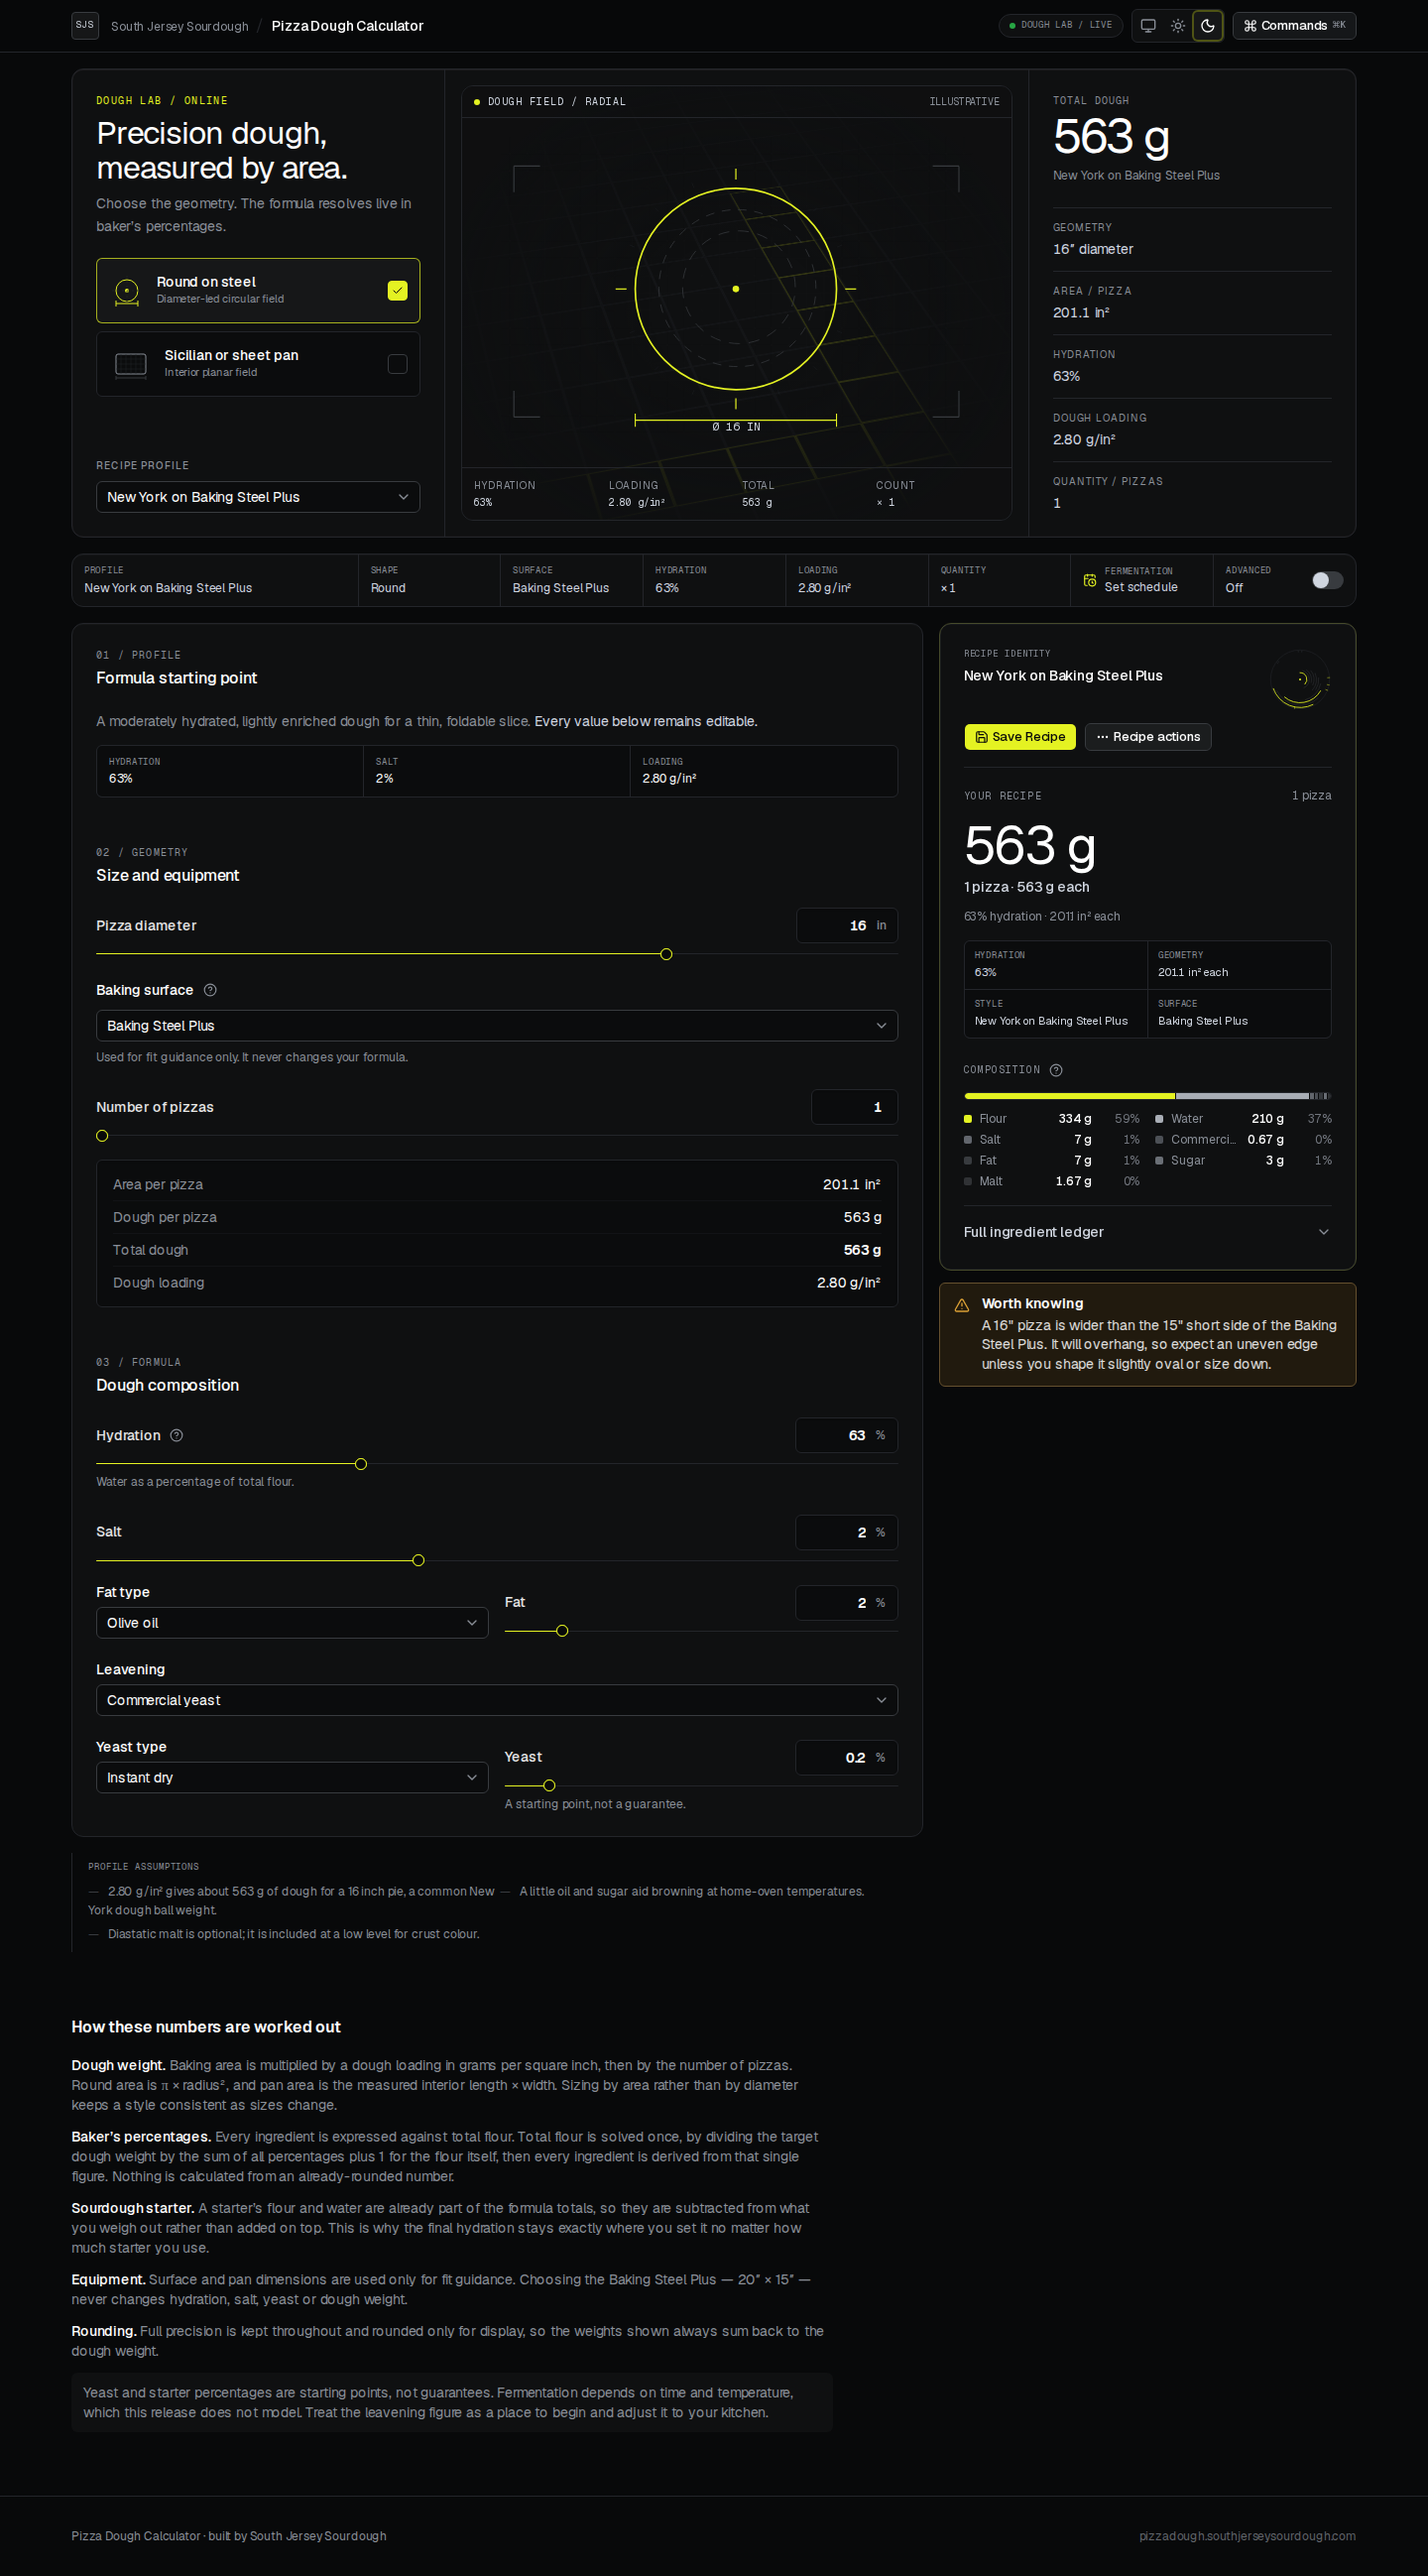
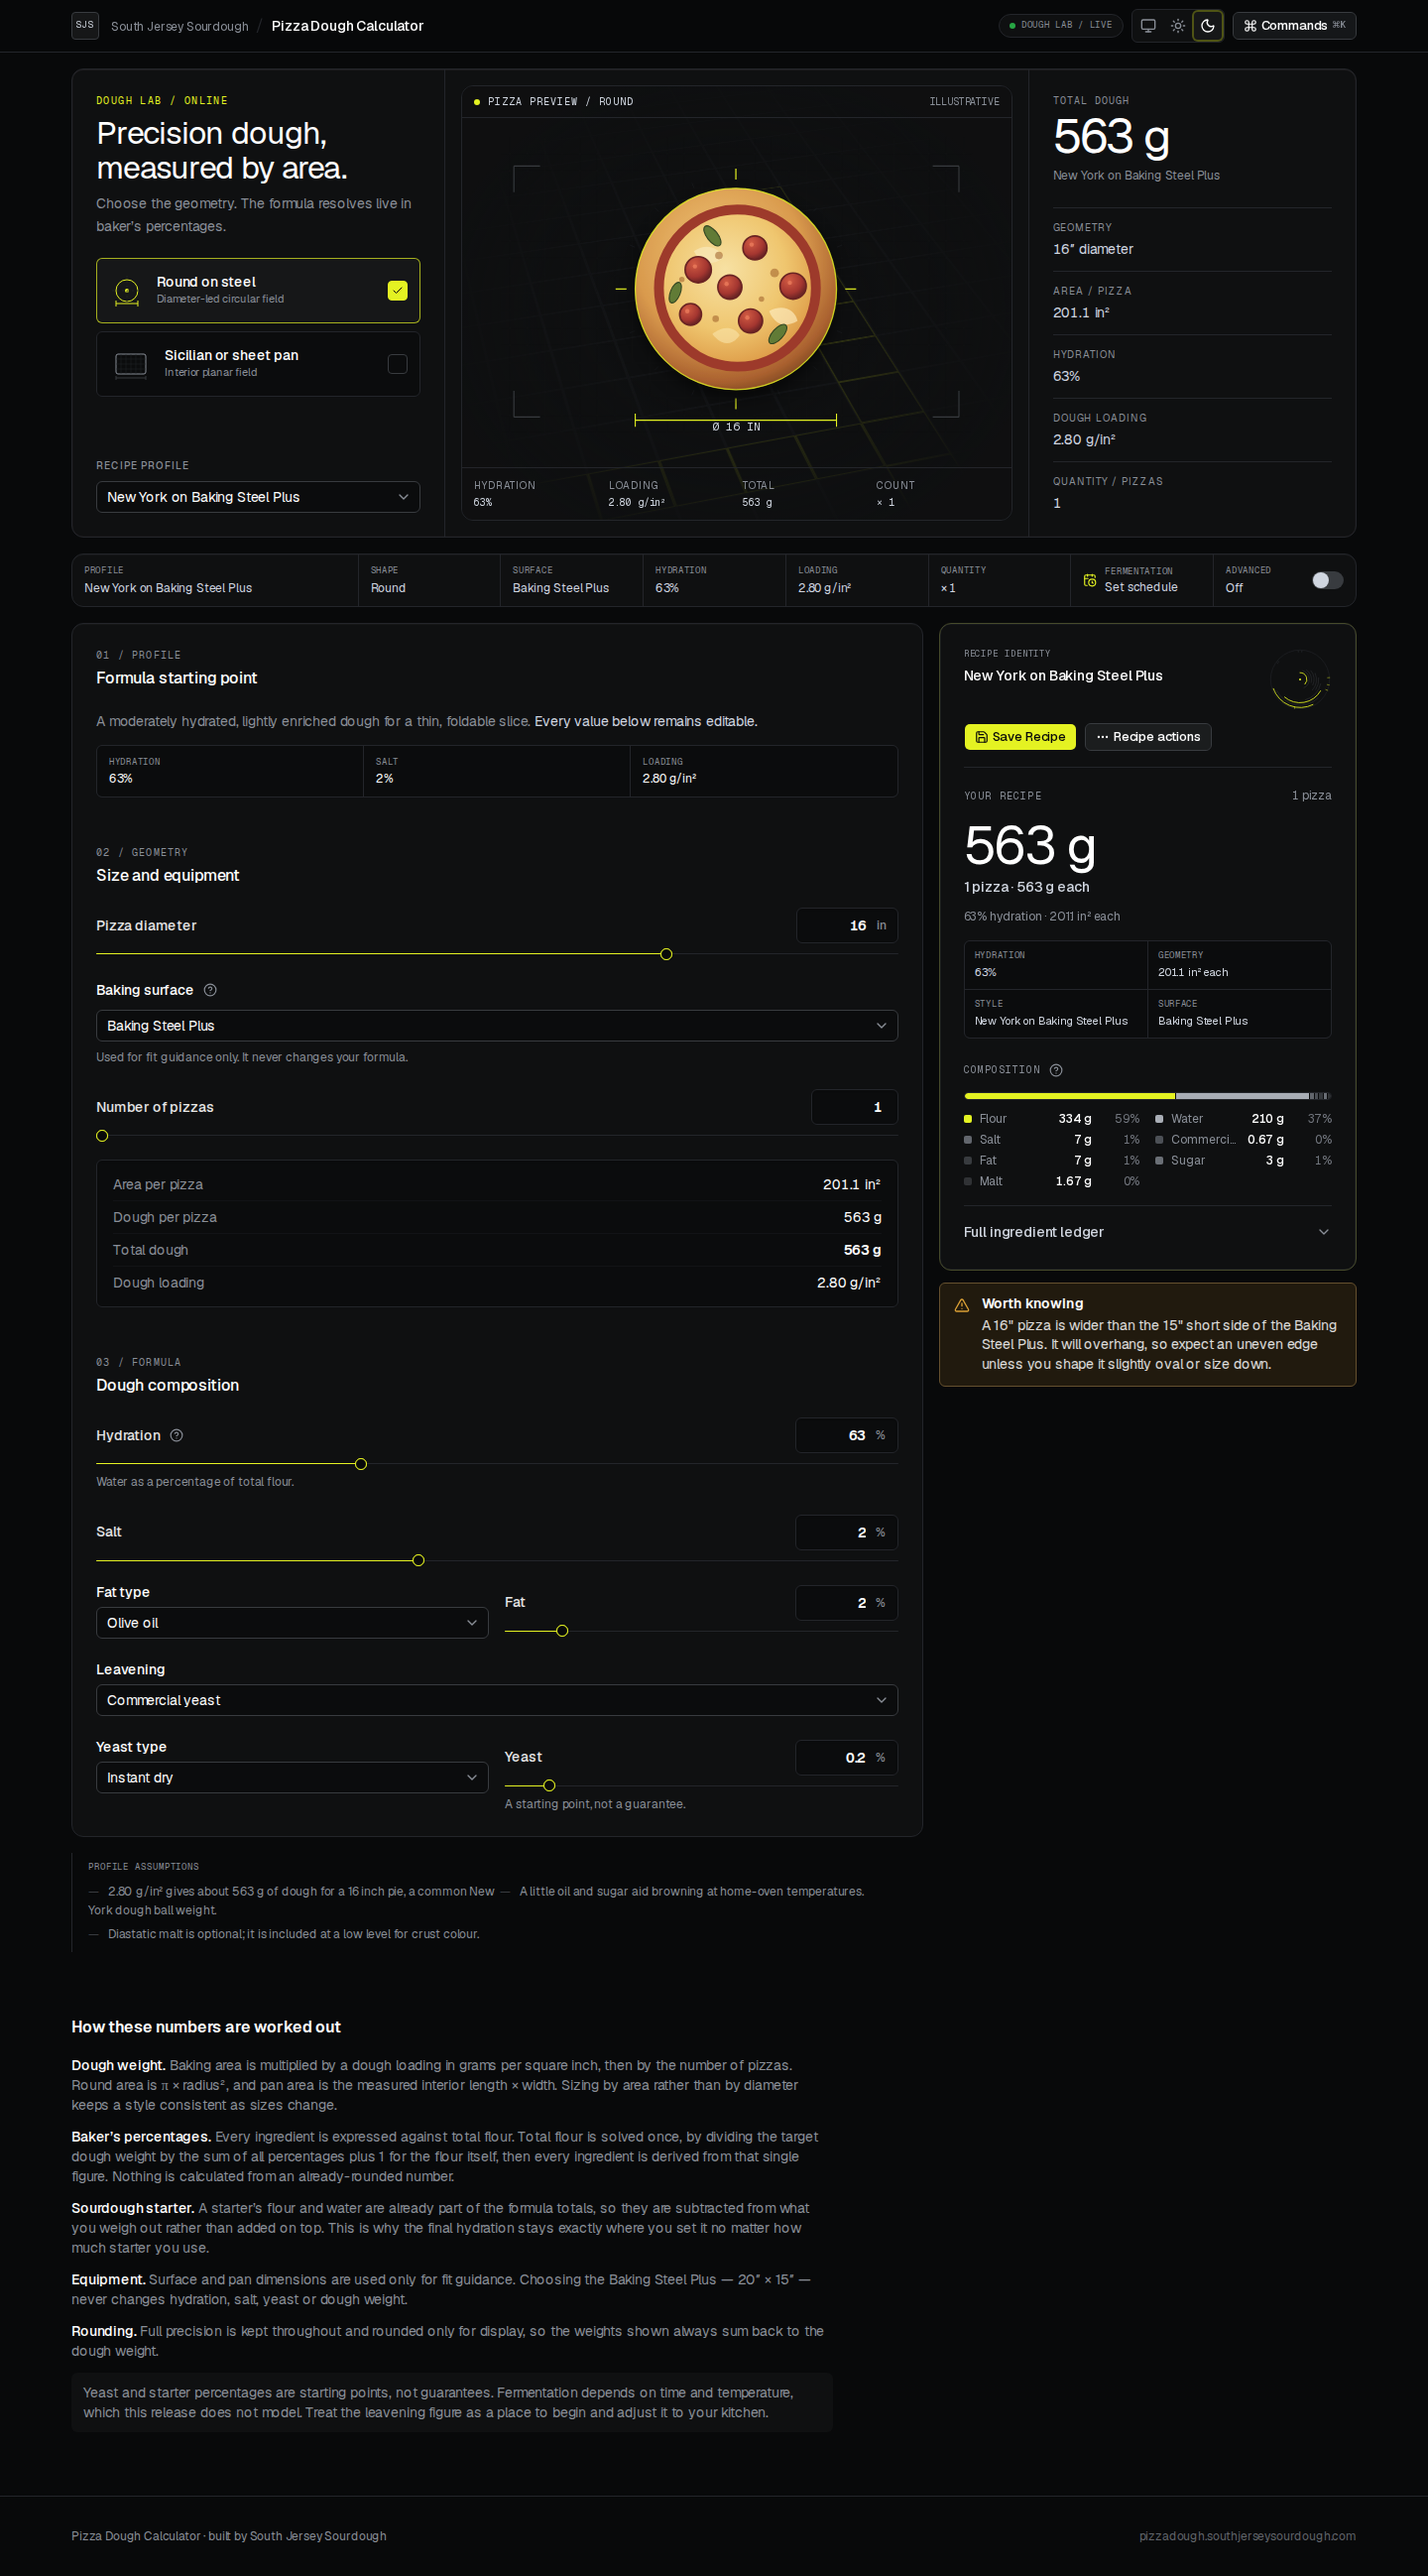
Claude 07

Changed region(s): [[0.4375, 0.0624, 0.5938, 0.1559]]

diff --git a/src/features/dough-calculator/components/dough-field.tsx b/src/features/dough-calculator/components/dough-field.tsx
@@ -37,7 +37,7 @@ function MetaReadout({ label, value }: { label: string; value: string }) {
   );
 }
 
-/** Technical, illustrative geometry. Anime.js owns SVG d/opacity only; Motion does not animate this SVG. */
+/** Stylized pizza preview. Anime.js owns SVG path morphing; no canvas or WebGL is involved. */
 export function DoughField({
   state,
   className,
@@ -70,6 +70,12 @@ export function DoughField({
     if (!root || !scope) return;
     const active = root.querySelector<SVGPathElement>("[data-field-active]");
     const target = root.querySelector<SVGPathElement>("[data-field-target]");
+    const crust = root.querySelector<SVGPathElement>("[data-pizza-crust]");
+    const cheese = root.querySelector<SVGPathElement>("[data-pizza-cheese]");
+    const cheeseTarget = root.querySelector<SVGPathElement>(
+      "[data-pizza-cheese-target]"
+    );
+    const toppings = root.querySelectorAll<SVGElement>("[data-pizza-topping]");
     const contours = root.querySelectorAll<SVGPathElement>(
       "[data-field-contour]"
     );
@@ -77,7 +83,7 @@ export function DoughField({
     const dimensions = root.querySelectorAll<SVGElement>(
       "[data-field-dimension]"
     );
-    if (!active || !target) return;
+    if (!active || !target || !crust || !cheese || !cheeseTarget) return;
 
     animations.current.forEach((animation) => animation.cancel());
     animations.current = [];
@@ -88,11 +94,14 @@ export function DoughField({
       modeChanged
     );
     target.setAttribute("d", geometry.activePath);
+    cheeseTarget.setAttribute("d", geometry.contourPaths[1]);
 
     const supportsPathMeasurement = typeof active.getTotalLength === "function";
 
     if (prefersReducedMotion || previous === null || !supportsPathMeasurement) {
       active.setAttribute("d", geometry.activePath);
+      crust.setAttribute("d", geometry.activePath);
+      cheese.setAttribute("d", geometry.contourPaths[1]);
       contours.forEach((contour, index) =>
         contour.setAttribute(
           "d",
@@ -106,6 +115,8 @@ export function DoughField({
     }
 
     active.setAttribute("d", previous.activePath);
+    crust.setAttribute("d", previous.activePath);
+    cheese.setAttribute("d", previous.contourPaths[1]);
     scope.execute(() => {
       if (modeChanged)
         animations.current.push(
@@ -123,6 +134,30 @@ export function DoughField({
           ease: "inOut(3)",
         })
       );
+      animations.current.push(
+        animate(crust, {
+          d: svg.morphTo(target, 0.45),
+          duration: plan.morphMs,
+          ease: "inOut(3)",
+        })
+      );
+      animations.current.push(
+        animate(cheese, {
+          d: svg.morphTo(cheeseTarget, 0.45),
+          duration: plan.morphMs,
+          ease: "inOut(3)",
+        })
+      );
+      if (modeChanged)
+        animations.current.push(
+          animate(toppings, {
+            opacity: [0.25, 1],
+            scale: [0.94, 1],
+            duration: plan.settleMs,
+            delay: plan.labelDelayMs,
+            ease: "out(3)",
+          })
+        );
       animations.current.push(
         animate(dimensions, {
           opacity: [0.15, 1],
@@ -177,7 +212,7 @@ export function DoughField({
       <div className="flex items-center justify-between border-b-[0.5px] border-graphite px-3 py-2">
         <span className="flex items-center gap-2 font-mono text-[10px] tracking-[0.1em] text-secondary-foreground uppercase">
           <span className="size-1.5 rounded-full bg-acid-lime" />
-          Dough Field / {isRound ? "Radial" : "Planar"}
+          Pizza Preview / {isRound ? "Round" : "Pan"}
         </span>
         <span className="font-mono text-[10px] text-muted-foreground">
           ILLUSTRATIVE
@@ -191,6 +226,37 @@ export function DoughField({
           preserveAspectRatio="xMidYMid meet"
         >
           <defs>
+            <radialGradient id="pizza-crust" cx="42%" cy="34%" r="72%">
+              <stop offset="0" stopColor="#f1c879" />
+              <stop offset="0.58" stopColor="#d99a4d" />
+              <stop offset="0.86" stopColor="#aa612f" />
+              <stop offset="1" stopColor="#71401f" />
+            </radialGradient>
+            <radialGradient id="pizza-cheese" cx="42%" cy="38%" r="70%">
+              <stop offset="0" stopColor="#f7e1a3" />
+              <stop offset="0.55" stopColor="#efc66f" />
+              <stop offset="1" stopColor="#d9903d" />
+            </radialGradient>
+            <radialGradient id="pepperoni" cx="35%" cy="28%" r="70%">
+              <stop offset="0" stopColor="#d15b43" />
+              <stop offset="0.7" stopColor="#a43630" />
+              <stop offset="1" stopColor="#6f2525" />
+            </radialGradient>
+            <filter
+              id="pizza-shadow"
+              x="-25%"
+              y="-25%"
+              width="150%"
+              height="160%"
+            >
+              <feDropShadow
+                dx="0"
+                dy="7"
+                stdDeviation="7"
+                floodColor="#000"
+                floodOpacity="0.58"
+              />
+            </filter>
             <pattern
               id="fine-grid"
               width="16"
@@ -219,12 +285,17 @@ export function DoughField({
             strokeWidth="1"
           />
           <path data-field-target d={geometry.activePath} className="hidden" />
-          {geometry.contourPaths.slice(1).map((path, index) => (
+          <path
+            data-pizza-cheese-target
+            d={geometry.contourPaths[1]}
+            className="hidden"
+          />
+          {geometry.contourPaths.slice(2).map((path, index) => (
             <path
               key={index}
               data-field-contour
               d={path}
-              className="fill-none stroke-smoke/85"
+              className="fill-none stroke-smoke/55"
               strokeWidth="0.8"
               strokeDasharray={`${6 + index * 2} ${6 + index}`}
             />
@@ -243,16 +314,99 @@ export function DoughField({
             />
           ))}
           <path
+            data-pizza-crust
+            d={geometry.activePath}
+            fill="url(#pizza-crust)"
+            filter="url(#pizza-shadow)"
+          />
+          <path
+            data-pizza-cheese
+            d={geometry.contourPaths[1]}
+            fill="url(#pizza-cheese)"
+            stroke="#9d3a2b"
+            strokeWidth="9"
+            strokeLinejoin="round"
+          />
+          <g data-pizza-topping>
+            <path
+              d="M201 122c12-8 23-3 27 6-9 7-19 8-27-6Z"
+              fill="#f8e8b9"
+              opacity="0.7"
+            />
+            <path
+              d="M270 177c13-7 24-1 26 9-10 6-20 5-26-9Z"
+              fill="#fff0c7"
+              opacity="0.62"
+            />
+            <path
+              d="M218 198c9-8 20-7 25 1-6 9-16 11-25-1Z"
+              fill="#f9e5ad"
+              opacity="0.58"
+            />
+          </g>
+          <g data-pizza-topping>
+            {[
+              [205, 139, 12],
+              [257, 119, 11],
+              [292, 154, 12],
+              [253, 186, 11],
+              [198, 180, 10],
+              [234, 155, 11],
+            ].map(([cx, cy, radius]) => (
+              <g key={`${cx}-${cy}`}>
+                <circle
+                  cx={cx}
+                  cy={cy}
+                  r={radius}
+                  fill="url(#pepperoni)"
+                  stroke="#692323"
+                  strokeWidth="1.5"
+                />
+                <circle
+                  cx={cx - 3}
+                  cy={cy - 3}
+                  r="2"
+                  fill="#ef8060"
+                  opacity="0.7"
+                />
+              </g>
+            ))}
+          </g>
+          <g data-pizza-topping fill="#617b36" stroke="#314522" strokeWidth="1">
+            <ellipse
+              cx="218"
+              cy="108"
+              rx="5"
+              ry="11"
+              transform="rotate(-38 218 108)"
+            />
+            <ellipse
+              cx="278"
+              cy="198"
+              rx="5"
+              ry="11"
+              transform="rotate(42 278 198)"
+            />
+            <ellipse
+              cx="184"
+              cy="160"
+              rx="4.5"
+              ry="10"
+              transform="rotate(22 184 160)"
+            />
+          </g>
+          <g data-pizza-topping fill="#9e5e28" opacity="0.55">
+            <circle cx="224" cy="126" r="3.5" />
+            <circle cx="275" cy="142" r="4" />
+            <circle cx="221" cy="184" r="3" />
+            <circle cx="263" cy="166" r="2.5" />
+            <circle cx="190" cy="148" r="2.5" />
+          </g>
+          <path
             data-field-active
             d={geometry.activePath}
-            className="fill-none stroke-acid-lime"
-            strokeWidth="1.5"
-          />
-          <circle
-            cx={geometry.center.x}
-            cy={geometry.center.y}
-            r="3"
-            className="fill-acid-lime"
+            className="fill-none stroke-acid-lime/80"
+            strokeWidth="1.2"
           />
           {geometry.dimensionLines.map((line, index) => (
             <line
@@ -302,7 +456,7 @@ export function DoughField({
         <MetaReadout label="Count" value={`× ${state.quantity}`} />
       </div>
       <figcaption id="dough-field-caption" className="sr-only">
-        Dough Field technical visualization: {sizeLabel},{" "}
+        Pizza preview technical visualization: {sizeLabel},{" "}
         {state.hydrationPercent}% hydration,{" "}
         {formatDoughLoading(state.doughLoadingGramsPerSquareInch)},{" "}
         {formatTotalWeight(state.totalDoughWeightGrams)} total for{" "}

diff --git a/tests/e2e/product-lifecycle.spec.ts b/tests/e2e/product-lifecycle.spec.ts
@@ -141,12 +141,17 @@ test("morphs the Dough Field from radial to planar geometry", async ({
   await page.goto("/");
   const field = page.locator("[data-dough-field]");
   const perimeter = field.locator("[data-field-active]");
+  const pizzaCrust = field.locator("[data-pizza-crust]");
   const radialPath = await perimeter.getAttribute("d");
+  const radialCrustPath = await pizzaCrust.getAttribute("d");
 
   await page.getByText("Sicilian or sheet pan", { exact: true }).click();
   await expect(field).toHaveAttribute("data-dough-field", "rectangular");
   await expect.poll(() => perimeter.getAttribute("d")).not.toBe(radialPath);
-  await expect(field).toContainText("Dough Field / Planar");
+  await expect
+    .poll(() => pizzaCrust.getAttribute("d"))
+    .not.toBe(radialCrustPath);
+  await expect(field).toContainText("Pizza Preview / Pan");
 });
 
 test("serves the manifest and supports dark, light, and reduced-motion paths", async ({

diff --git a/src/features/dough-calculator/tests/dough-stage.test.tsx b/src/features/dough-calculator/tests/dough-stage.test.tsx
@@ -83,6 +83,8 @@ describe("SVG Dough Field", () => {
 
     expect(container.querySelector("[data-dough-field]")).not.toBeNull();
     expect(container.querySelector("[data-dough-field] svg")).not.toBeNull();
+    expect(container.querySelector("[data-pizza-crust]")).not.toBeNull();
+    expect(container.querySelector("[data-pizza-cheese]")).not.toBeNull();
     expect(container.querySelector("canvas")).toBeNull();
   });
 
